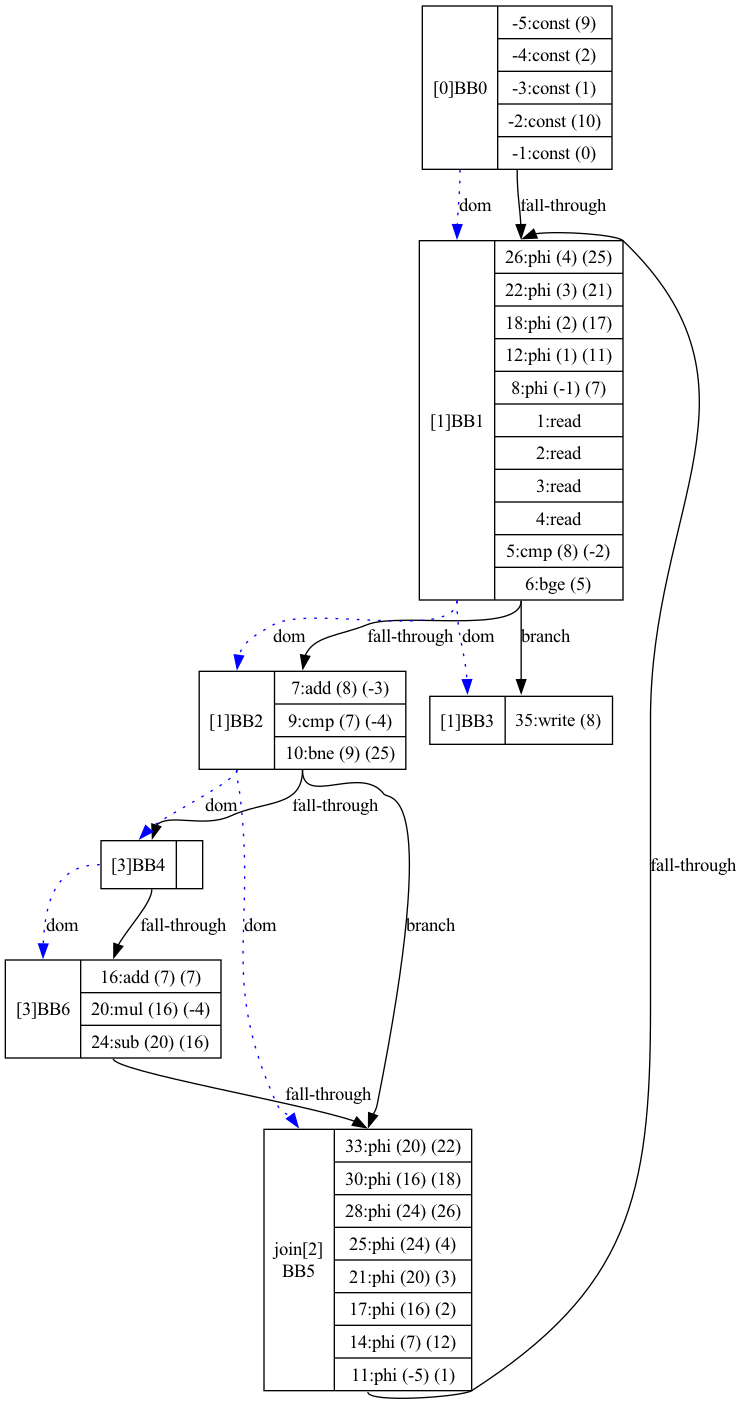
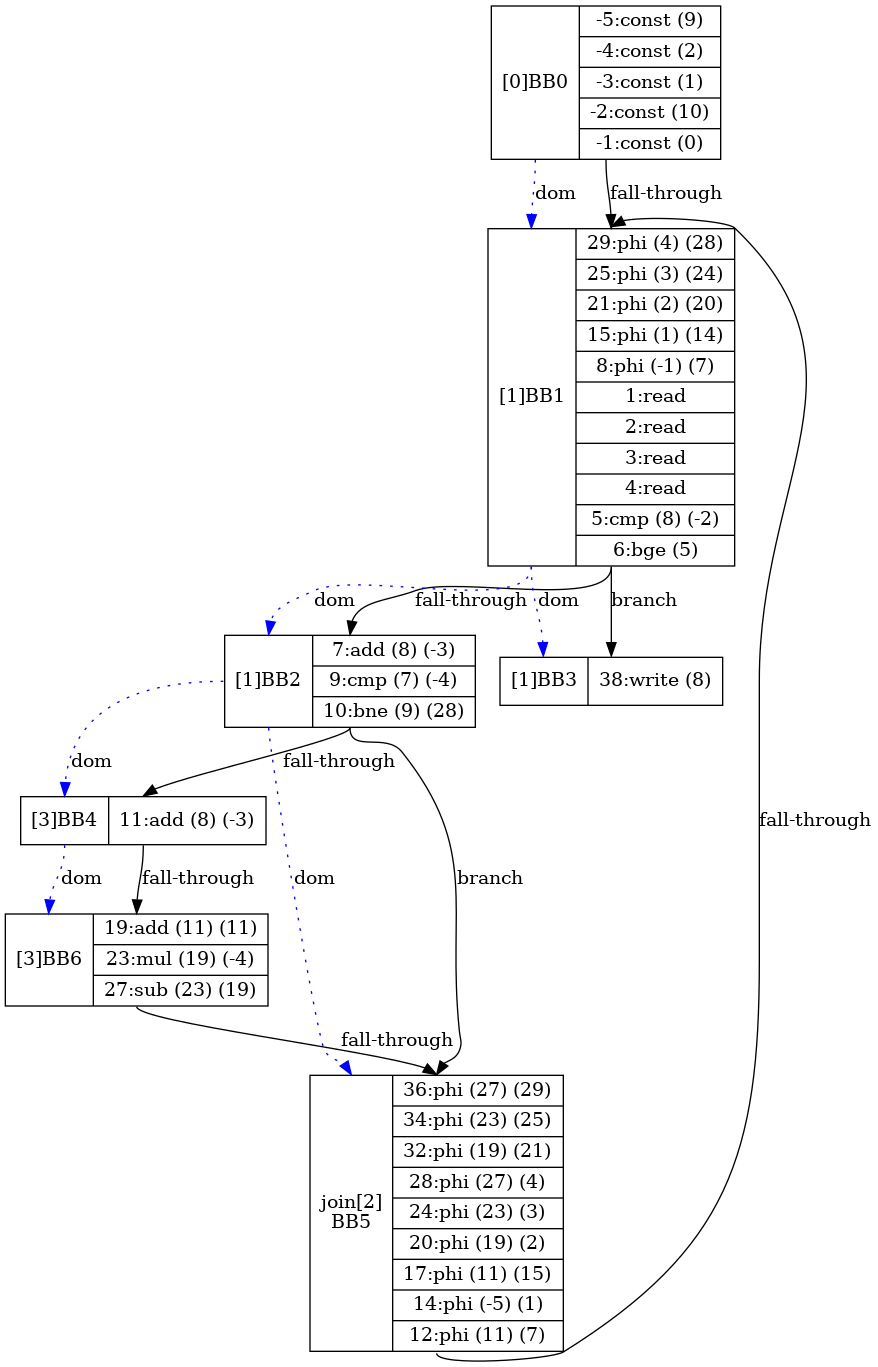
continue testing mf WTF bro im asldkfj

diff --git a/src/Parser.hpp b/src/Parser.hpp
@@ -148,16 +148,17 @@ public:
             return nullptr;
         }
 
-        if (x && x->get_operator() == op) {
-            if (((x->get_operand1()) && (x->get_operand1()->compare(y))) || ((x->get_operand2()) && (x->get_operand2()->compare(y)))) {
-                ret = x;
-            }
-        }
-        if (y && y->get_operator() == op) {
-            if (((y->get_operand1()) && (y->get_operand1()->compare(x))) || ((y->get_operand2()) && (y->get_operand2()->compare(x)))) {
-                ret = y;
-            }
-        }
+        // [12.26.2024]: why tf did we put this here again?...
+        // if (x && x->get_operator() == op) {
+        //     if ((((x->get_operand1()) && (x->get_operand1()->compare(y))) && (!x->get_operand2() || x->get_operand2()->compare(x))) || (((x->get_operand2()) && (x->get_operand2()->compare(y))) && (!x->get_operand1() || x->get_operand1()->compare(x)))) {
+        //         ret = x;
+        //     }
+        // }
+        // if (y && y->get_operator() == op) {
+        //     if (((y->get_operand1()) && (y->get_operand1()->compare(x))) || ((y->get_operand2()) && (y->get_operand2()->compare(x)))) {
+        //         ret = y;
+        //     }
+        // }
 
         // [09/19/2024]: Replaced Below (previous=this->SSA_instrs; current=this->instrList)
         Node *curr = BasicBlock::instrList.at(op)->tail;
@@ -627,15 +628,25 @@ public:
                                 std::cout << "currVVsIdent: [" << prevVal->toString() << "]" << std::endl;
                                 std::cout << "ident_valSSA: [" << BasicBlock::ssa_table.at(ident_val)->toString() << "]" << std::endl;
                             #endif
-                            prevVal = this->set_operand(2, prevVal, BasicBlock::ssa_table.at(ident_val), ident);
+                            SSA *ret = this->set_operand(2, prevVal, BasicBlock::ssa_table.at(ident_val), ident);
                             // prevVal->set_operand2(BasicBlock::ssa_table.at(ident_val));
+                            // [12.14.2024]: if we're in main while we shoujldn't overwrite since we assume it's the phi joining from before while-loop
+                            // 【12.26.2024】：if [set_operand()] cretes a new SSA, we should handle it here ig....操
+                            BasicBlock *tmp = this->currBB;
+                            this->currBB = curr;
+                            ret = this->addSSA1(ret, true);
+                            ident_val = this->add_SSA_table(ret);
+                            curr->varVals.insert_or_assign(ident, ident_val);
+                            this->VVs.insert_or_assign(ident, ident_val);
+                            this->currBB = tmp;
+
+                            oldVal = prevVal;
                         } else {
                             #ifdef DEBUG
                                 std::cout << " already assigned to this value! doing nothing..." << std::endl;
                             #endif
                         }
                         // curr->updateInstructions(prevVal, BasicBlock::ssa_table.at(ident_val)); // [12.14.2024]: if we're in main while we shoujldn't overwrite since we assume it's the phi joining from before while-loop
-                        // curr->varVals.insert_or_assign(ident, ident_val); // [12.14.2024]: if we're in main while we shoujldn't overwrite since we assume it's the phi joining from before while-loop
                     } else {
                         // if (prevVal->compare(oldVal)) {            
                         //     curr->varVals.insert_or_assign(ident, ident_val);
@@ -656,7 +667,7 @@ public:
                         ident_val = this->add_SSA_table(retVal);
                         
                         curr->varVals.insert_or_assign(ident, ident_val);
-                        this->VVs.insert_or_assign(ident, ident_val);
+                        // this->VVs.insert_or_assign(ident, ident_val);
                         curr->updateInstructions(prevVal, BasicBlock::ssa_table.at(ident_val));
                         
                         this->currBB = tmp;
@@ -716,6 +727,12 @@ public:
                             std::cout << prevVal->toString() << std::endl;
                             std::cout << BasicBlock::ssa_table.at(ident_val)->toString() << std::endl;
                         #endif
+
+                        if (this->currBB->findSSA(prevVal)) {
+                            // [12.26.2024]: this hsould be the end of [propagateDown()] for this branch right?
+                            // - since prevVal was created in [this->currBB], we can assume future BB's that're DOM by this->currBB will either use that val or update it
+                            return;
+                        }
                     }
                 }
             } else {
@@ -1018,6 +1035,8 @@ public:
         #endif
     }
 
+    // compares then-blk && else-blk to see if we need to update join-blk's phi-instr's
+    // - propagateDown's update after
     inline void conditionalStmtPhiUpdate(std::unordered_set<int> vars, SSA *oldVal = nullptr) {
         // [12.09.2024]: if we have [if && else] blk, assumes [this->currBB == join_blk]
         BasicBlock *then_blk_last = this->currBB->parent;
@@ -1086,6 +1105,7 @@ public:
                 
                 SSA *phi_instr = nullptr;
                 int phi_table_int;
+                bool newAdd = false;
 
                 if (this->currBB->varVals.find(p) != this->currBB->varVals.end()) {
                     #ifdef DEBUG
@@ -1122,16 +1142,19 @@ public:
                                 std::cout << "about to remove ssa [" << BasicBlock::ssa_table.at(this->currBB->varVals.at(p))->toString() << "]" << std::endl;
                             #endif
                             this->currBB->removeSSA(BasicBlock::ssa_table.at(this->currBB->varVals.at(p))); // [12.14.2024]: lets just leavei t there
+                            newAdd = true;
                         }
-                    }
+                    } else { newAdd = true; }
                 }
 
-                phi_instr = this->addSSA1(6, BasicBlock::ssa_table.at(then_blk_last->varVals.at(p)), BasicBlock::ssa_table.at(else_blk_last->varVals.at(p)), true);
-                phi_table_int = this->add_SSA_table(phi_instr);
-                
-                // [10.28.2024]: Update BasicBlock's VV
-                this->currBB->varVals.insert_or_assign(p, phi_table_int);
-                this->VVs.insert_or_assign(p, phi_table_int);
+                if (newAdd) {
+                    phi_instr = this->addSSA1(6, BasicBlock::ssa_table.at(then_blk_last->varVals.at(p)), BasicBlock::ssa_table.at(else_blk_last->varVals.at(p)), true);
+                    phi_table_int = this->add_SSA_table(phi_instr);
+                    
+                    // [10.28.2024]: Update BasicBlock's VV
+                    this->currBB->varVals.insert_or_assign(p, phi_table_int);
+                    this->VVs.insert_or_assign(p, phi_table_int);
+                }
                 
                 #ifdef DEBUG
                     std::cout << "currBB after updtae: " << std::endl << this->currBB->toString() << std::endl;

diff --git a/src/Parser.cpp b/src/Parser.cpp
@@ -604,6 +604,10 @@ SSA* Parser::p2_assignment() {
             #ifdef DEBUG
                 std::cout << "Warning: uninitialized variable default initialized to 0! Overwriting default value here (same-BB)" << std::endl;
             #endif
+        } else {
+            #ifdef DEBUG
+                std::cout << "Proceeding with std insert" << std::endl;
+            #endif
         }
     }
     
